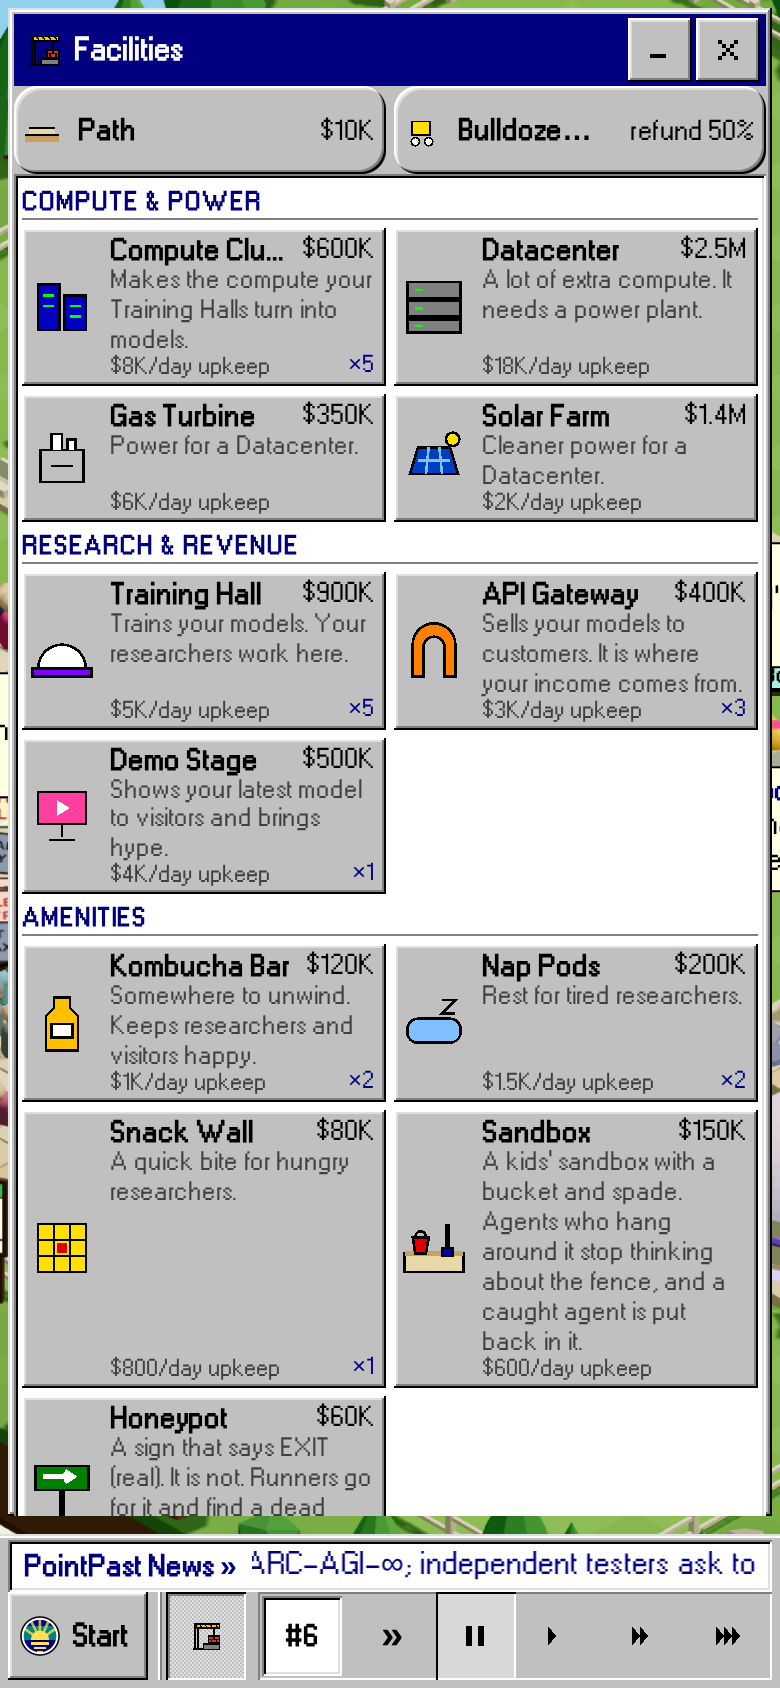
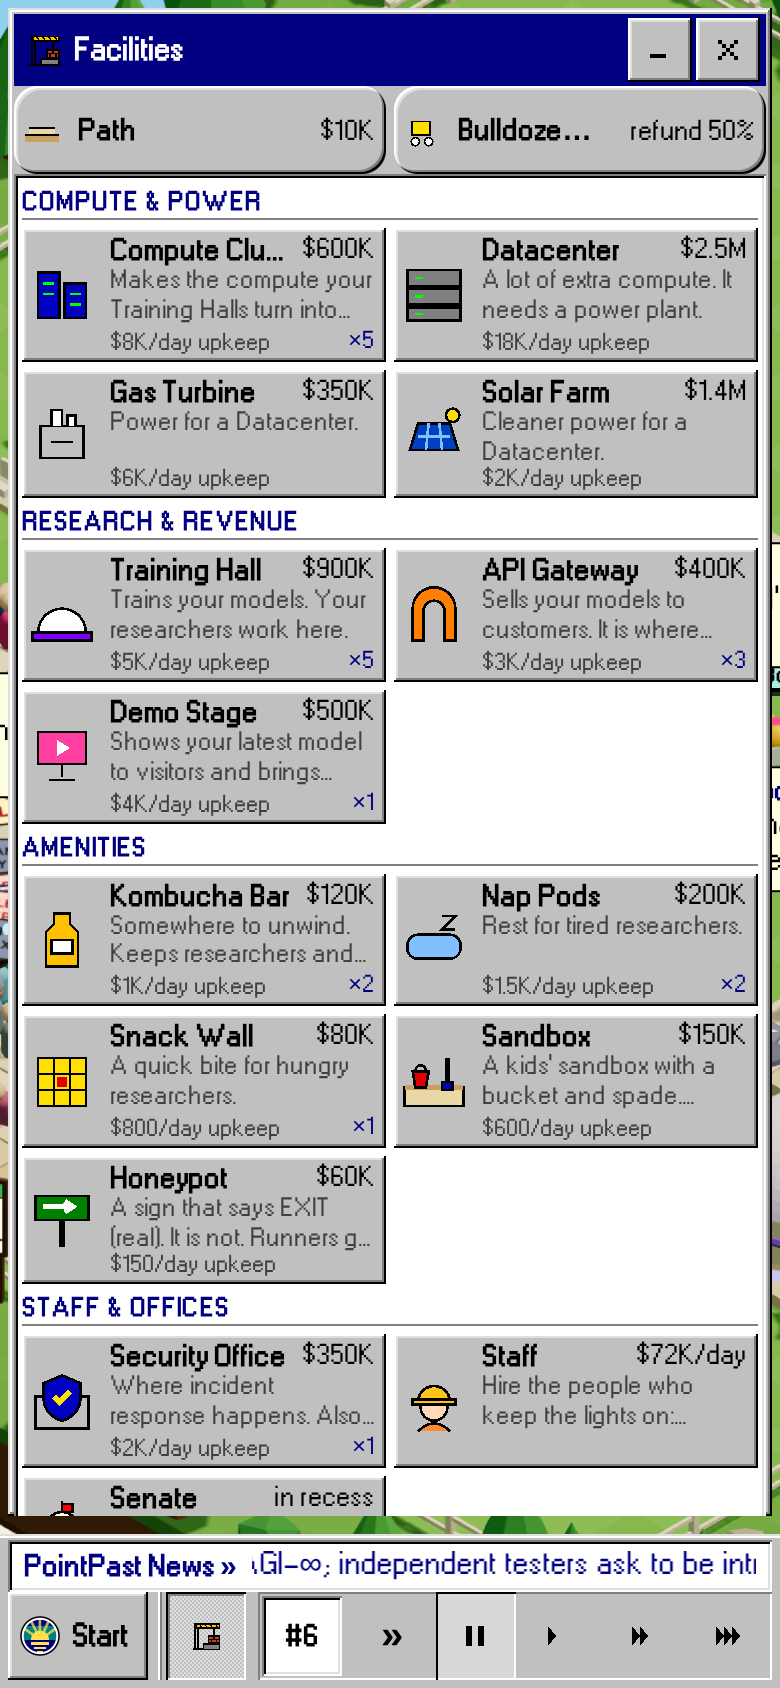
FLT-94: palette tiles fit their text: descriptions clamp to two lines (the tooltip has the rest), the ×built count gets its own cell so upkeep always shows, the list fits the right column and scrolls on a 1995 scrollbar; palette shots re-taken, plus scrolled-to-the-end scenes

diff --git a/src/skins/frontier-95/skin.css b/src/skins/frontier-95/skin.css
@@ -6190,9 +6190,22 @@
     }
     .f95-ptiles {
       width: 100%;
-      max-height: min(56vh, 520px);
+      /* As tall as the right column allows (the footer stays in view at 1440×900); a long list scrolls, on a 1995
+         scrollbar that shows even where the OS hides them, so the last row reads as "more", not cut off. */
+      max-height: max(240px, calc(100dvh - 310px));
       overflow-y: auto;
       padding: 2px 4px 6px;
+      &::-webkit-scrollbar {
+        width: 16px;
+      }
+      &::-webkit-scrollbar-track {
+        background: repeating-conic-gradient(var(--hl) 0 25%, var(--g) 0 50%) 0 0 / 2px 2px;
+      }
+      &::-webkit-scrollbar-thumb {
+        min-height: 24px;
+        background: var(--g);
+        box-shadow: var(--btn);
+      }
       section > ul {
         display: grid;
         grid-template-columns: repeat(2, minmax(0, 1fr));
@@ -6221,7 +6234,7 @@
     height: 100%;
     display: grid;
     grid-template-columns: 36px minmax(0, 1fr) auto;
-    grid-template-areas: "i n p" "i d d" "i u u";
+    grid-template-areas: "i n p" "i d d" "i u b";
     grid-template-rows: auto 1fr auto;
     align-items: start;
     column-gap: 4px;
@@ -6252,8 +6265,14 @@
         font-weight: bold;
       }
     }
+    /* Two lines at most, so every tile keeps its upkeep in view; the tile's tooltip has the whole line. */
     .does {
       grid-area: d;
+      display: -webkit-box;
+      -webkit-box-orient: vertical;
+      -webkit-line-clamp: 2;
+      line-clamp: 2;
+      overflow: hidden;
       font-size: 13px;
       line-height: 1.15;
       color: var(--flt-color-textDim);
@@ -6263,10 +6282,13 @@
       font-size: 12px;
       color: var(--flt-color-textDim);
     }
+    .up,
     .built {
-      position: absolute;
-      right: 6px;
-      bottom: 4px;
+      align-self: end;
+    }
+    .built {
+      grid-area: b;
+      justify-self: end;
       font-size: 12px;
       color: var(--navy);
     }

diff --git a/docs/img/flt-94/report.md b/docs/img/flt-94/report.md
@@ -8,12 +8,14 @@
 | **flt94-taskbar**<br>10.3% px differ | ![flt94-taskbar](https://github.com/jem-computer/frontier-lab-tycoon/blob/flt-94-quick-launch/docs/img/flt-94/before/flt94-taskbar.png?raw=true) | ![flt94-taskbar](https://github.com/jem-computer/frontier-lab-tycoon/blob/flt-94-quick-launch/docs/img/flt-94/after/flt94-taskbar.png?raw=true) |
 | **flt94-apps**<br>12.6% px differ | ![flt94-apps](https://github.com/jem-computer/frontier-lab-tycoon/blob/flt-94-quick-launch/docs/img/flt-94/before/flt94-apps.png?raw=true) | ![flt94-apps](https://github.com/jem-computer/frontier-lab-tycoon/blob/flt-94-quick-launch/docs/img/flt-94/after/flt94-apps.png?raw=true) |
 | **flt94-programs**<br>24.7% px differ | ![flt94-programs](https://github.com/jem-computer/frontier-lab-tycoon/blob/flt-94-quick-launch/docs/img/flt-94/before/flt94-programs.png?raw=true) | ![flt94-programs](https://github.com/jem-computer/frontier-lab-tycoon/blob/flt-94-quick-launch/docs/img/flt-94/after/flt94-programs.png?raw=true) |
-| **flt94-palette**<br>15.2% px differ | ![flt94-palette](https://github.com/jem-computer/frontier-lab-tycoon/blob/flt-94-quick-launch/docs/img/flt-94/before/flt94-palette.png?raw=true) | ![flt94-palette](https://github.com/jem-computer/frontier-lab-tycoon/blob/flt-94-quick-launch/docs/img/flt-94/after/flt94-palette.png?raw=true) |
+| **flt94-palette**<br>14.4% px differ | ![flt94-palette](https://github.com/jem-computer/frontier-lab-tycoon/blob/flt-94-quick-launch/docs/img/flt-94/before/flt94-palette.png?raw=true) | ![flt94-palette](https://github.com/jem-computer/frontier-lab-tycoon/blob/flt-94-quick-launch/docs/img/flt-94/after/flt94-palette.png?raw=true) |
+| **flt94-palette-end**<br>14.8% px differ | ![flt94-palette-end](https://github.com/jem-computer/frontier-lab-tycoon/blob/flt-94-quick-launch/docs/img/flt-94/before/flt94-palette-end.png?raw=true) | ![flt94-palette-end](https://github.com/jem-computer/frontier-lab-tycoon/blob/flt-94-quick-launch/docs/img/flt-94/after/flt94-palette-end.png?raw=true) |
 | **flt94-leaderboard**<br>1.0% px differ | ![flt94-leaderboard](https://github.com/jem-computer/frontier-lab-tycoon/blob/flt-94-quick-launch/docs/img/flt-94/before/flt94-leaderboard.png?raw=true) | ![flt94-leaderboard](https://github.com/jem-computer/frontier-lab-tycoon/blob/flt-94-quick-launch/docs/img/flt-94/after/flt94-leaderboard.png?raw=true) |
 | **flt94-taskbar-phone**<br>⚠ compare: blank composite: panel 3 is 31% one colour, 11 colours | ![flt94-taskbar-phone](https://github.com/jem-computer/frontier-lab-tycoon/blob/flt-94-quick-launch/docs/img/flt-94/before/flt94-taskbar-phone.png?raw=true) | ![flt94-taskbar-phone](https://github.com/jem-computer/frontier-lab-tycoon/blob/flt-94-quick-launch/docs/img/flt-94/after/flt94-taskbar-phone.png?raw=true) |
 | **flt94-tray-phone**<br>8.9% px differ | ![flt94-tray-phone](https://github.com/jem-computer/frontier-lab-tycoon/blob/flt-94-quick-launch/docs/img/flt-94/before/flt94-tray-phone.png?raw=true) | ![flt94-tray-phone](https://github.com/jem-computer/frontier-lab-tycoon/blob/flt-94-quick-launch/docs/img/flt-94/after/flt94-tray-phone.png?raw=true) |
 | **flt94-programs-phone**<br>4.6% px differ | ![flt94-programs-phone](https://github.com/jem-computer/frontier-lab-tycoon/blob/flt-94-quick-launch/docs/img/flt-94/before/flt94-programs-phone.png?raw=true) | ![flt94-programs-phone](https://github.com/jem-computer/frontier-lab-tycoon/blob/flt-94-quick-launch/docs/img/flt-94/after/flt94-programs-phone.png?raw=true) |
-| **flt94-palette-phone**<br>74.4% px differ | ![flt94-palette-phone](https://github.com/jem-computer/frontier-lab-tycoon/blob/flt-94-quick-launch/docs/img/flt-94/before/flt94-palette-phone.png?raw=true) | ![flt94-palette-phone](https://github.com/jem-computer/frontier-lab-tycoon/blob/flt-94-quick-launch/docs/img/flt-94/after/flt94-palette-phone.png?raw=true) |
+| **flt94-palette-phone**<br>75.0% px differ | ![flt94-palette-phone](https://github.com/jem-computer/frontier-lab-tycoon/blob/flt-94-quick-launch/docs/img/flt-94/before/flt94-palette-phone.png?raw=true) | ![flt94-palette-phone](https://github.com/jem-computer/frontier-lab-tycoon/blob/flt-94-quick-launch/docs/img/flt-94/after/flt94-palette-phone.png?raw=true) |
+| **flt94-palette-end-phone**<br>74.4% px differ | ![flt94-palette-end-phone](https://github.com/jem-computer/frontier-lab-tycoon/blob/flt-94-quick-launch/docs/img/flt-94/before/flt94-palette-end-phone.png?raw=true) | ![flt94-palette-end-phone](https://github.com/jem-computer/frontier-lab-tycoon/blob/flt-94-quick-launch/docs/img/flt-94/after/flt94-palette-end-phone.png?raw=true) |
 | **flt94-leaderboard-phone**<br>⚠ compare: blank composite: panel 3 is 40% one colour, 7 colours | ![flt94-leaderboard-phone](https://github.com/jem-computer/frontier-lab-tycoon/blob/flt-94-quick-launch/docs/img/flt-94/before/flt94-leaderboard-phone.png?raw=true) | ![flt94-leaderboard-phone](https://github.com/jem-computer/frontier-lab-tycoon/blob/flt-94-quick-launch/docs/img/flt-94/after/flt94-leaderboard-phone.png?raw=true) |
 
 _pnpm shots: 10 scene(s) in 484.2s (20/20 captures ok, 2 PROBLEM(S))._
